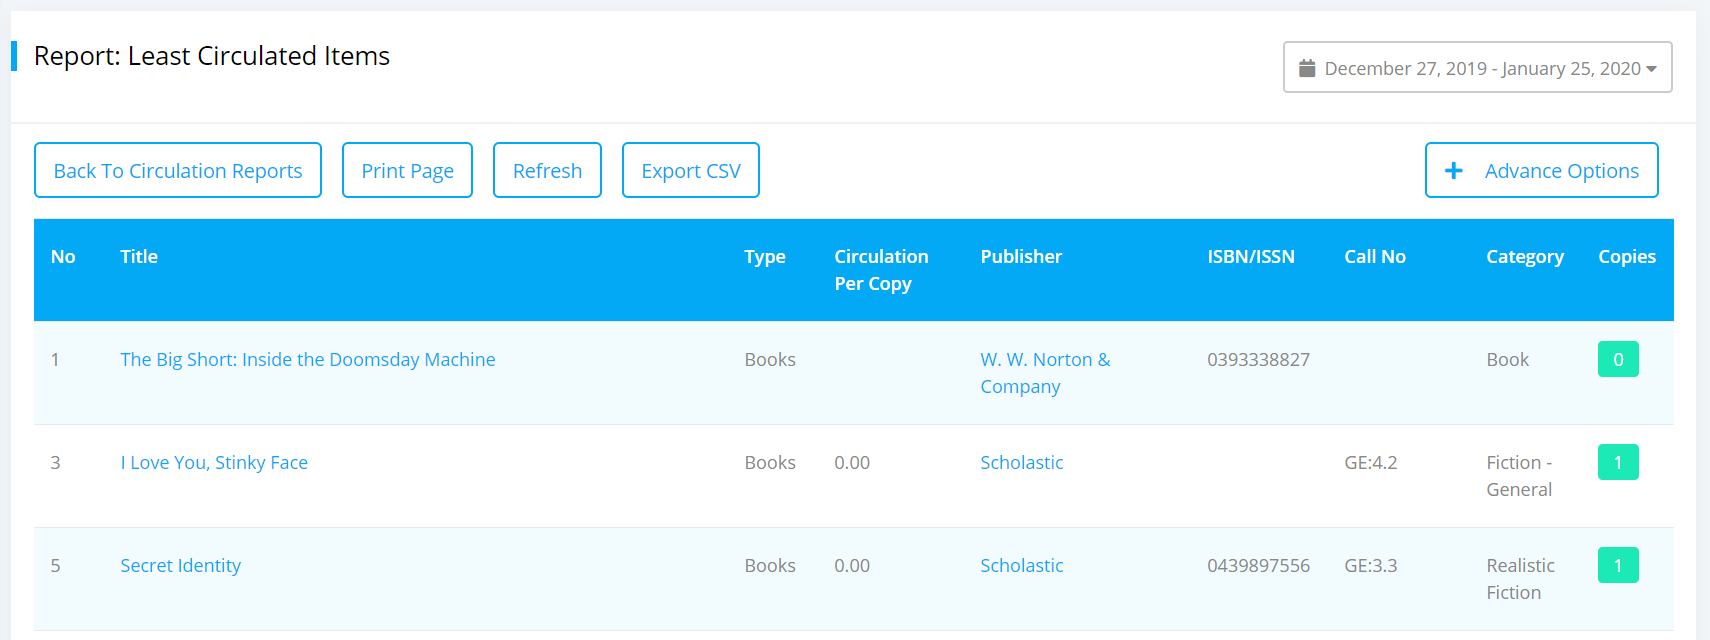
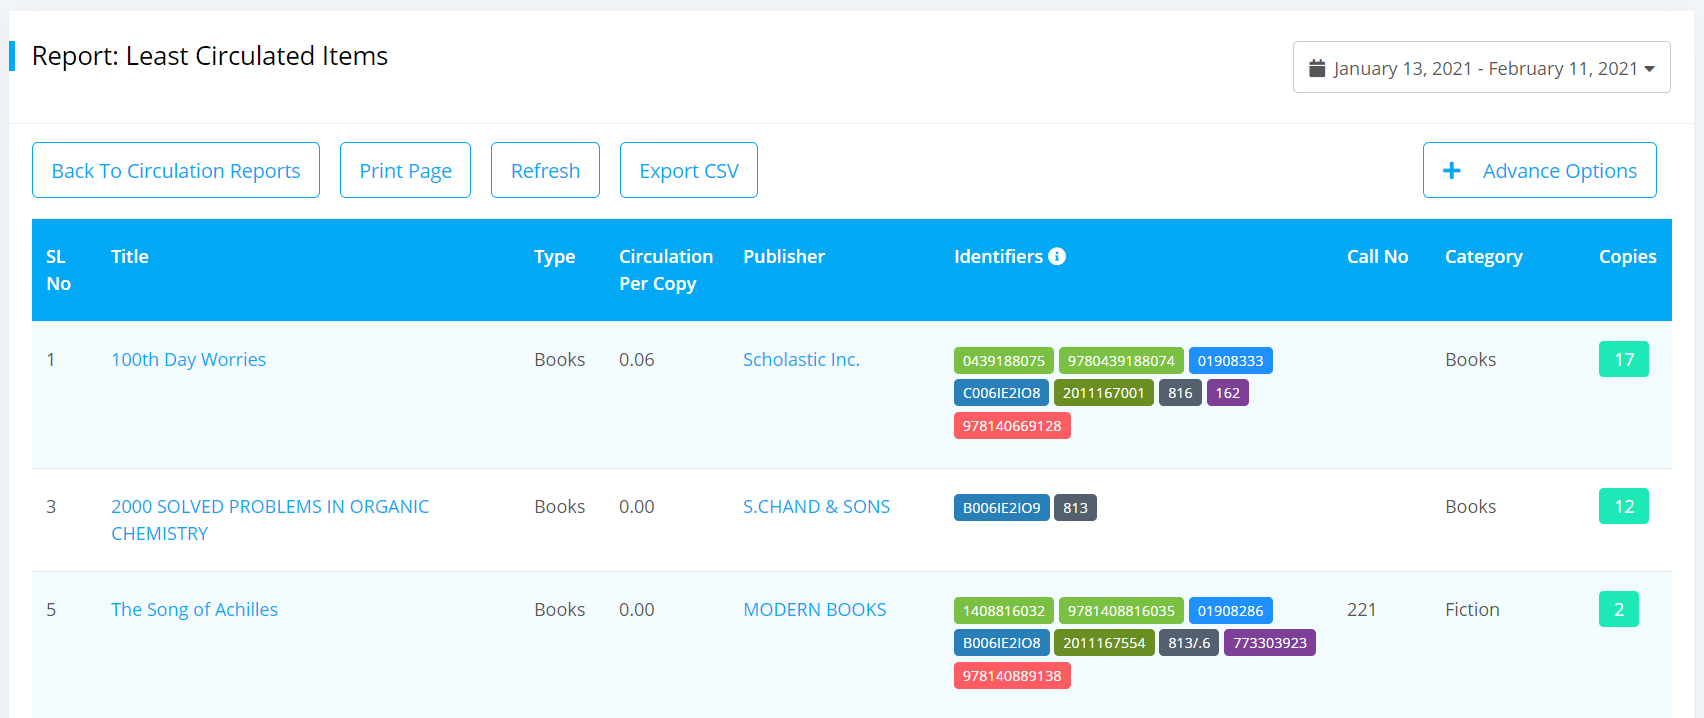
Added the catalog identifiers on the catalog, circulation & reports section

diff --git a/docs/circulations.md b/docs/circulations.md
@@ -17,6 +17,10 @@ You can access the list of all circulations related entries in this section unde
 
 	![Circulations all dropdown menu](img/circulations-all-dropdown-menu.png)
 
+* If you click on the `Identifiers` column then you can sort the circulations using different types of identifier like isbn, isbn13, issn, asin and more.
+
+	![Circulations identifiers](img/circulations-identifiers.png)
+
 ## Check-out Item
 
 To check-out or loan an item to a member of your library, please follow the below steps:
@@ -24,19 +28,19 @@ To check-out or loan an item to a member of your library, please follow the belo
 * Please go to the `Dashboard -> Circulations -> Circulations` section.
 * Click on the `Circulate Item` button.
 
-	![Quick circulation form](img/circulations-quick-circulation-form.png)
+	![Quick circulation form](img/circulations-quick-circulation.png)
 
 * First enter member number or member name. An auto-select list will appear, please select the member from the list.
 
-	![Quick circulation form](img/circulations-quick-circulation-form-1.png)
+	![Quick circulation form](img/circulations-quick-circulation-1.png)
  
-* Then enter accession number or book title. An auto-select list will appear with green / red indicator, please select the item with green indicator. Red indicator means, the item is not available for check-out.
+* Then enter accession number, book title or any identifier like isbn, asin, lccn and more. An auto-select list will appear with green / red indicator, please select the item with green indicator. Red indicator means, the item is not available for check-out.
 
-	![Quick circulation form](img/circulations-quick-circulation-form-2.png)
+	![Quick circulation form](img/circulations-quick-circulation-2.png)
 
 * Change the return date if you wish to.
 
-	![Quick circulation form](img/circulations-quick-circulation-form-3.png)
+	![Quick circulation form](img/circulations-quick-circulation-3.png)
 
 * Click on the `Submit` button when you are done.
 
@@ -46,13 +50,13 @@ To check-in or receive an item from a member, please follow the below steps:
 
 * Please go to the `Dashboard -> Circulations -> Circulations` section.
 * Click on the `Quick Return` button.
-* Enter the accession number of the item you want to check-in. An auto-select list will appear with green / red indicators. Your item should have red indicator.
+* Enter the accession number, book title or any identifier of the item that you want to check-in. An auto-select list will appear with green / red indicators. Your item should have red indicator.
 
-	![Quick circulation form](img/circulations-check-in-form1.png)
+	![Quick circulation form](img/circulations-check-in.png)
 
 * Select the item from the list.
 
-	![Quick circulation form](img/circulations-check-in-form2.png)
+	![Quick circulation form](img/circulations-check-in-1.png)
 
 * Enter any remark note in the remark input box, if you want to.
 * Click on the `Submit` button when you are done.
@@ -67,15 +71,17 @@ To reserve an item on behalf of a member, please follow the below steps:
 
 	![Reserve item form](img/circulations-reserve-item-form.png)
 
-* Enter member number, accession number, booking date, return date etc.
-* Select status as "Reserved".
+* Enter member number or member name for whom you want to reserve.
+* Then enter the accession number, title or any identifier of the item that you want to reserve.
+* Also enter booking date and return date of the item.
+* Select status as **Reserved**.
 * Click on the `Submit` button when you are done.
 
 ## Change Return Date
 
 You can update / extend return date of any circulation record specially that has already been issued but not yet returned. 
 
-To update or extend an item from a member, please follow the below steps:
+To update or extend an item for a member, please follow the below steps:
 
 * Please go to the `Dashboard -> Circulations -> Circulations` section.
 * Click on the `Quick Extend` button.
@@ -84,9 +90,6 @@ To update or extend an item from a member, please follow the below steps:
 	![Quick circulation form](img/circulations-quick-extend-form1.png)
 
 * Select the item from the list.
-
-	![Quick circulation form](img/circulations-quick-extend-form2.png)
-
 * Enter any remark note in the remark input box, if you want to.
 * Click on the `Submit` button when you are done.
 
@@ -121,7 +124,7 @@ To use this functionality, please follow the below steps:
 
 * An auto-select list will appear, select the item from the list. All related circulations of the selected item will appear as shown below.
 	
-	![Circulations form filter result](img/circulations-form-filter-result.png)
+	![Circulations filter result](img/circulations-filter-result.png)
 
 * Now you can perform any action regarding your needs for circulations.
 

diff --git a/docs/cataloging.md b/docs/cataloging.md
@@ -45,6 +45,10 @@ Tips: If your existing barcode labels are numeric digit then you can add them as
 
 You can access all your catalog items along with their associated copy's information from the `Dashboard -> Catalogs -> Catalog Items` section. Clicking on the `View` icon next to a Catalog Item will display the item detail containing all the copies. You can edit / modify / delete those information for this same detail page.
 
+![Media form identifiers](img/media-form-identifiers.png)
+
+* Here if you click on the `Identifiers` column then you can sort the catalog items using different types of identifier like isbn, isbn13, issn, asin and more.
+
 ### Smart Add
 
 Smart add method lets you easily add book's information from the Internet. All you need is the ISBN number to catalog a new book. 
@@ -90,6 +94,13 @@ To use this method, please follow the below steps:
 	* Please select media type equals to `Other` while adding items that does not belong to any of the listed media types. 
 
 * In `Accession No` field the accession number is auto generated by our system. However, you can enter your own or custom accession number if you want.
+
+* In `ASIN` field you can add the items amazon standard identification number that is assigned by Amazon.com for item identification. Only alphanumeric characters (10-character) are allowed for this field.
+* `LCCN` field is for those libraries that have cataloged collections in the Library of Congress. 
+* `DDC` is a Dewey Decimal Classification system used by libraries to arrange books via subject. It is the world's most widely used way to organize library collections.
+* `OCLC` numbers are particularly useful for books and other bibliographic materials that do not have ISBNs. This numbers link WorldCat's records to local library system records by providing a common reference key for a record across libraries.
+* `UPC` short for universal product code is a barcode symbology which consists of twelve numeric characters that uniquely identify a company's individual product. It is widely used in the most of countries.
+
 * Also, you can add more details of your book by clicking on the `Detail` tab.
 
 	![Media add form](img/manual-add-detail-tab1.png)

diff --git a/docs/reports.md b/docs/reports.md
@@ -27,20 +27,24 @@ Catalog reports are mainly based on your library catalog items and their related
 * Now you can view how many items are resides under each branch. Also you can print them out if you need.
 * Next if you click on the view report button below the `Catalog Items` heading then the catalog items page will appear as shown below.
 
-	![Catalog Reports on catalog items](img/reports_on_catalog_item.png)
+	![Catalog Reports on catalog items](img/report_on_catalog_item.png)
 
 * If you click on the `Filter Options` on the top right corner of this page then you can find several filtering options for your catalog items.
 
 	![Catalog Reports filter options](img/reports_on_catalog_filter_options.png)
 
 * Now you can enter any fields from which you want to filter and click on the `Filter` button once you are done.
+* Also, you can sort the catalog item reports using different types of identifier.
+
+	![Catalog Reports identifiers](img/reports_catalog_identifier_options.png)
+
 * Next if you click on the `All Copies` view report button then you can view all the copies of your library catalog items.
 
-	![Catalog Reports on all copies](img/reports_on_all_copies.png)
+	![Catalog Reports on all copies](img/report_on_all_copies.png)
 
 * Also you can view all the copies in a particular date range like below.
 
-	![Catalog Reports catalog by date range](img/reports_on_all_copies_by_date.png)
+	![Catalog Reports catalog by date range](img/report_on_all_copies_by_date.png)
 
 * Next you can view reports only for the newly arrived copies under each item from `New Copies` report. Also you can view this within a date range.
 * Then you can view all the copies by their location from `Copies By Location` report.
@@ -107,7 +111,7 @@ Overdue Reports are based on the overdue items and copies of your library catalo
 
 * Then the next report is on the `Overdue Copies` of your library catalog items.
 	
-	![Overdue Reports on copies](img/reports_on_overdue_copies.png)
+	![Overdue Reports on copies](img/report_on_overdue_copies.png)
 
 ## Miscellaneous
 
